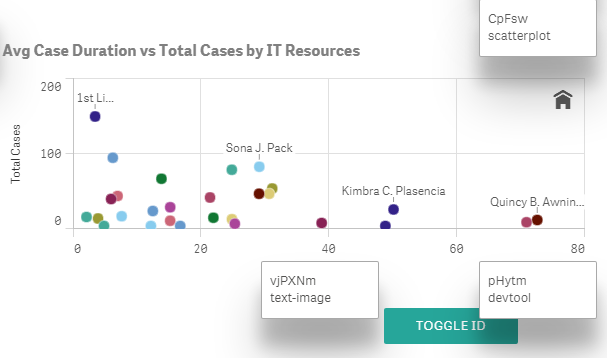
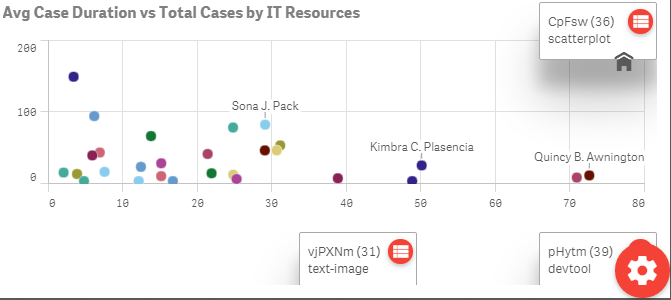
Version 2.0
Use floating action button
Materialize icons
Show handle also
Popup for properties

diff --git a/devtool.css b/devtool.css
@@ -1,7 +1,7 @@
 
 .devtool-tooltip {
 	position: absolute;
-	top: -40px;
+	top: 0px;
 	right: 0;
 	padding: 10px 8px;
 	background-color: white;
@@ -17,33 +17,61 @@
 	-moz-box-shadow: 0 27px 24px 0 rgba(0, 0, 0, 0.2), 0 40px 77px 0 rgba(0, 0, 0, 0.22);
 	box-shadow: 0 27px 24px 0 rgba(0, 0, 0, 0.2), 0 40px 77px 0 rgba(0, 0, 0, 0.22);
 }
-.qv-mode-edit .devtool-tooltip {
-	top: 0;
-}
+
 .devtool-btn {
+	position: absolute;
+	bottom: 25px;
+	right: 3px;
+	-webkit-box-shadow: 0 2px 5px 0 rgba(0, 0, 0, 0.16), 0 2px 10px 0 rgba(0, 0, 0, 0.12);
+	-moz-box-shadow: 0 2px 5px 0 rgba(0, 0, 0, 0.16), 0 2px 10px 0 rgba(0, 0, 0, 0.12);
+	box-shadow: 0 2px 5px 0 rgba(0, 0, 0, 0.16), 0 2px 10px 0 rgba(0, 0, 0, 0.12);
 	border: none;
-	border-radius: 2px;
 	display: inline-block;
-	height: 36px;
-	line-height: 36px;
-	outline: 0;
-	padding: 0 2rem;
-	text-transform: uppercase;
-	vertical-align: middle;
-	-webkit-tap-highlight-color: transparent;
-	text-decoration: none;
-	color: #FFF;
-	background-color: #26a69a;
 	text-align: center;
-	letter-spacing: .5px;
+	outline: 0;
+	-webkit-tap-highlight-color: transparent;
+	color: #FFF;
+	background-color: #F44336;
+	border-radius: 50%;
 	-webkit-transition: .2s ease-out;
 	-moz-transition: .2s ease-out;
 	-o-transition: .2s ease-out;
 	-ms-transition: .2s ease-out;
 	transition: .2s ease-out;
+	width: 25px;
+	height: 25px;
+	line-height: 25px;
+	padding: 0;
 	cursor: pointer;
 }
+
 .devtool-btn:hover {
-	background-color: #2bbbad;
+	--background-color: #2bbbad;
+	background-color: #D22114;
+}
+.devtool-btn i{
+	line-height: 25px;
+	font-size: 21px;
+}
+.devtool-btn.fab {
+	position: fixed;
+	bottom: 5px;
+	right: 5px;
+	z-index: 1;
+	width: 55.5px;
+	height: 55.5px;
+	line-height: 55.5px;
+	padding: 0;
+	border-radius: 50%;
+	transition: .3s;
 }
 
+.devtool-btn.fab:hover {
+	-webkit-box-shadow: 0 5px 11px 0 rgba(0, 0, 0, 0.18), 0 4px 15px 0 rgba(0, 0, 0, 0.15);
+	-moz-box-shadow: 0 5px 11px 0 rgba(0, 0, 0, 0.18), 0 4px 15px 0 rgba(0, 0, 0, 0.15);
+	box-shadow: 0 5px 11px 0 rgba(0, 0, 0, 0.18), 0 4px 15px 0 rgba(0, 0, 0, 0.15);
+}
+.devtool-btn.fab i{
+	line-height: 55.5px;
+	font-size: 2.2rem;
+}

diff --git a/devtool.js b/devtool.js
@@ -1,18 +1,27 @@
 define( ["css!./devtool.css"],
+
 	/**
 	 * @owner Erik Wetterberg (ewg)
 	 */
 	function () {
-
+		$( '<link href="https://fonts.googleapis.com/icon?family=Material+Icons"rel="stylesheet">' ).appendTo( "head" );
 		function toggleId () {
-			var cnt = $(".devtool-tooltip").remove();
-			if(cnt.length ===0) {
+			var cnt = $( ".devtool-tooltip" ).remove();
+			if ( cnt.length === 0 ) {
 				$( '.qv-object' ).each( function ( i, el ) {
 					var s = angular.element( el ).scope();
 					if ( s.$$childHead && s.$$childHead.layout ) {
-						var layout = s.$$childHead.layout;
-						$( el ).append( "<div class='devtool-tooltip'><div>" + layout.qInfo.qId + "</div><div>" +
-						layout.visualization + "</div></div>" );
+						var layout = s.$$childHead.layout, model = s.$$childHead.model;
+						$( el ).append( '<div class="devtool-tooltip">' +
+						'<a class="devtool-btn" title="properties"><i class="small material-icons">view_list</i></a>' +
+						'<div>' + layout.qInfo.qId + ' ('+model.handle+')</div>' +
+						'<div>' + layout.visualization + '</div>' +
+						"</div>" );
+						$(el ).find('.devtool-btn' ).on('click',function(){
+							model.getProperties().then(function(reply){
+								alert(JSON.stringify(reply,null,2));
+							});
+						});
 					} else {
 						console.log( "No ID found" );
 					}
@@ -22,11 +31,12 @@ define( ["css!./devtool.css"],
 
 		return {
 			initialProperties: {
-				version: 1.0,
+				version: 2.0,
 				showTitles: false
-			},paint: function ( $element ) {
-				$element.html( "<button class='devtool-btn'>Toggle Id</button>" );
-				$element.find( "button" ).on( "click", toggleId);
+			}, paint: function ( $element ) {
+				$( ".devtool-btn" ).remove();
+				$( document.body ).append( "<button class='devtool-btn fab'><i class='material-icons'>settings</i></button>" );
+				$( ".devtool-btn" ).on( "click", toggleId );
 			}
 		};
 
